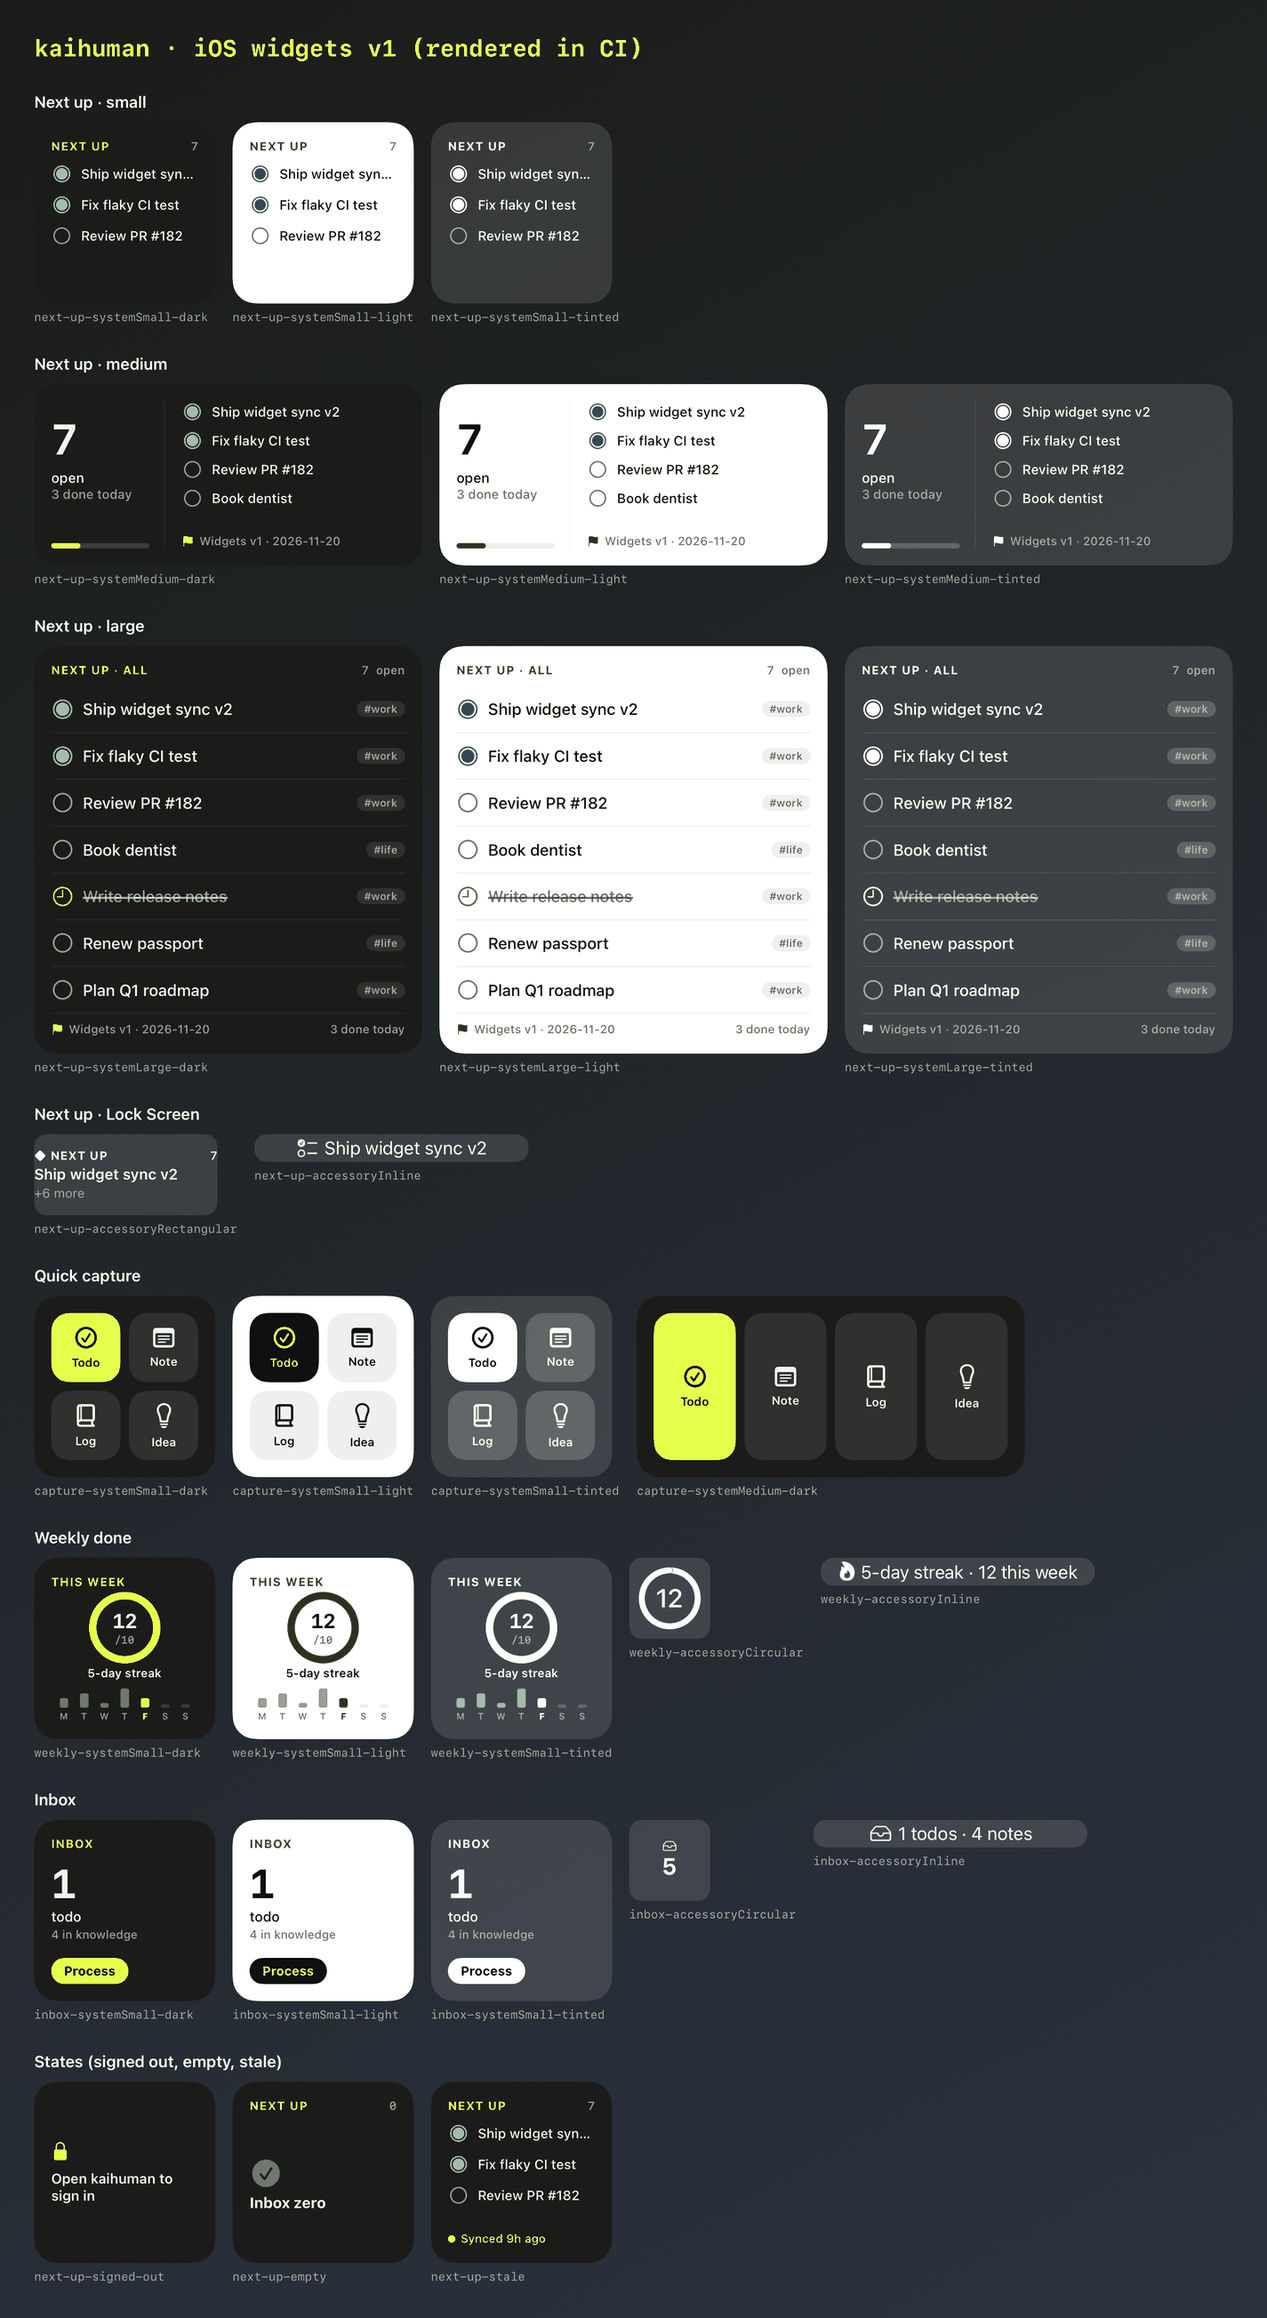
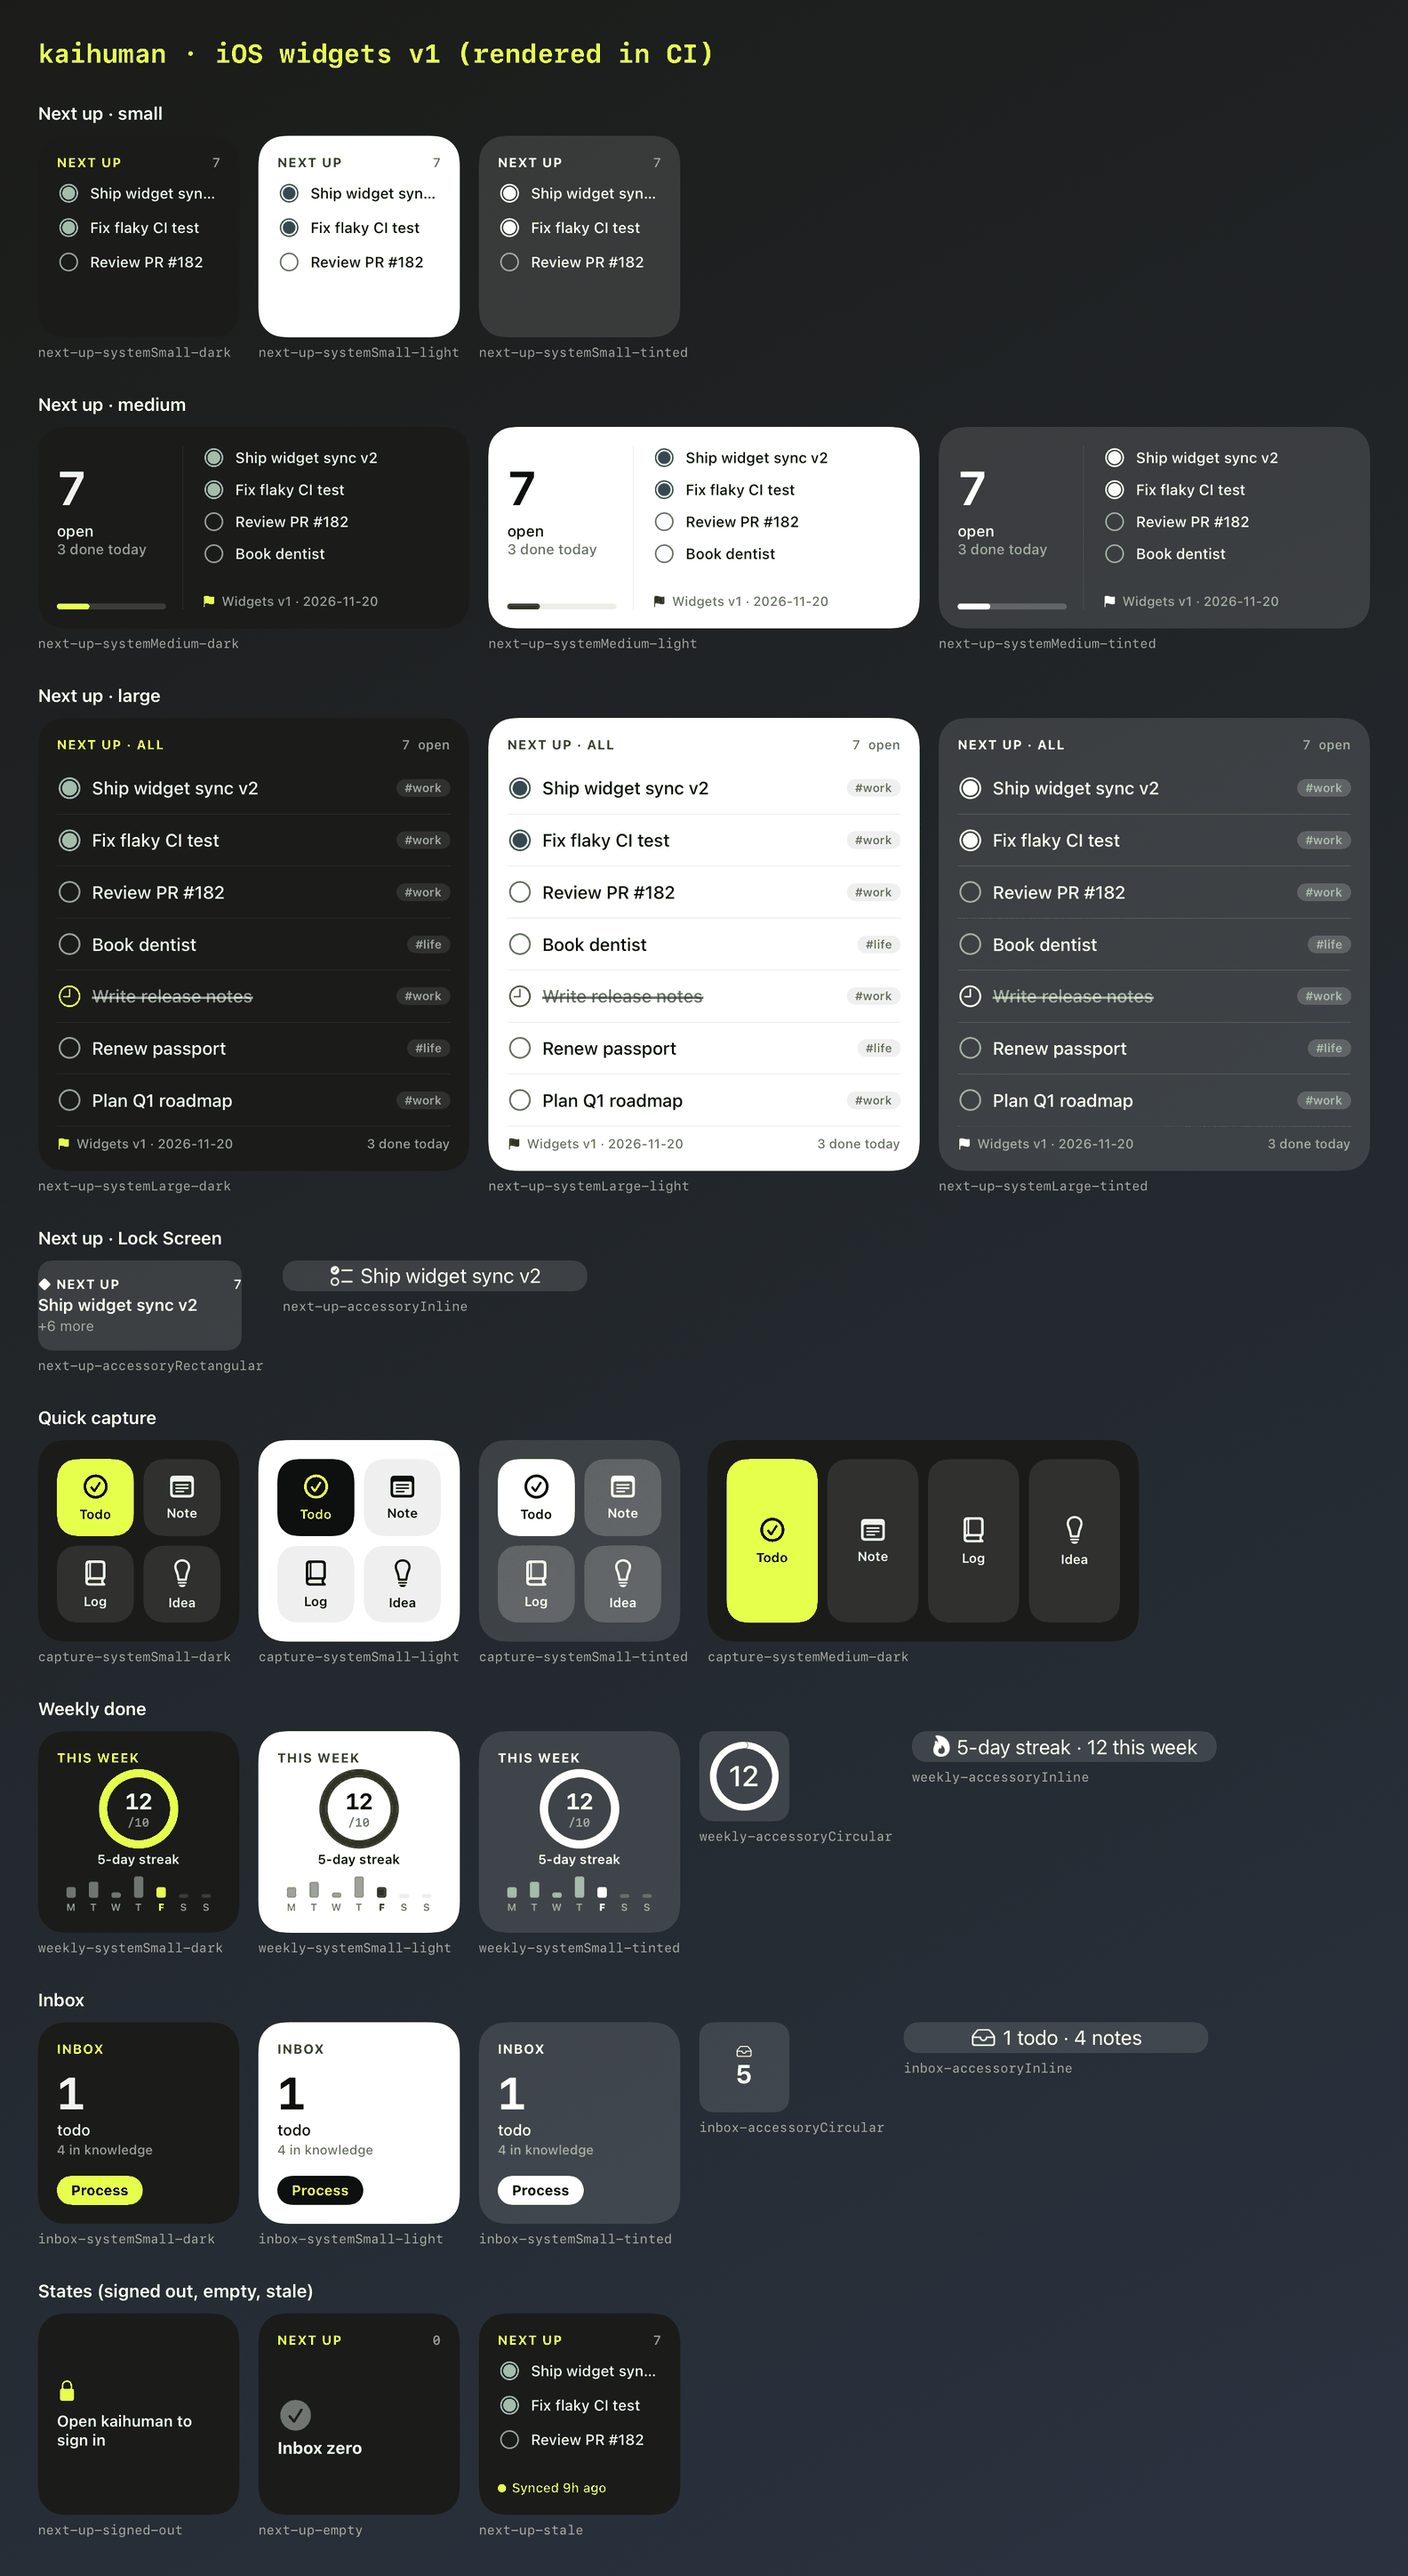
docs(mobile): CI-rendered v1 and v2 widget sheets; fit milestone rectangular
widgets-real.png (v1) and widgets-real-v2.png (v2) from Mobile build run
42274445403. The milestone Lock Screen rectangle put the gauge labels on
an extra row that overlapped; the count is now inline.

Claude-Session: https://claude.ai/code/session_01SsFUkeBDfzGBXQt8gozaTt

diff --git a/apps/mobile/targets/ios-widget/MilestoneCountdownWidget.swift b/apps/mobile/targets/ios-widget/MilestoneCountdownWidget.swift
@@ -186,15 +186,13 @@ struct MilestoneCountdownContent: View {
                 Image(systemName: "flag.fill").font(.system(size: 9)).widgetAccentable()
                 Text(milestone.name).font(.system(size: 12, weight: .bold)).lineLimit(1)
             }
-            Text("\(dayNumber(milestone)) \(caption(milestone))")
+            // Count inline: the linear gauge's own labels add a row the rectangle has no room for.
+            Text("\(dayNumber(milestone)) \(caption(milestone)) · \(milestone.done)/\(milestone.open + milestone.done)")
                 .font(.system(size: 14, weight: .semibold))
                 .lineLimit(1)
-            Gauge(value: Double(milestone.done), in: 0...Double(total(milestone))) {
-                Text("Done")
-            } currentValueLabel: {
-                Text("\(milestone.done)/\(milestone.open + milestone.done)")
-            }
-            .gaugeStyle(.accessoryLinearCapacity)
+                .minimumScaleFactor(0.8)
+            Gauge(value: Double(milestone.done), in: 0...Double(total(milestone))) { EmptyView() }
+                .gaugeStyle(.accessoryLinearCapacity)
         }
         .frame(maxWidth: .infinity, alignment: .leading)
     }
